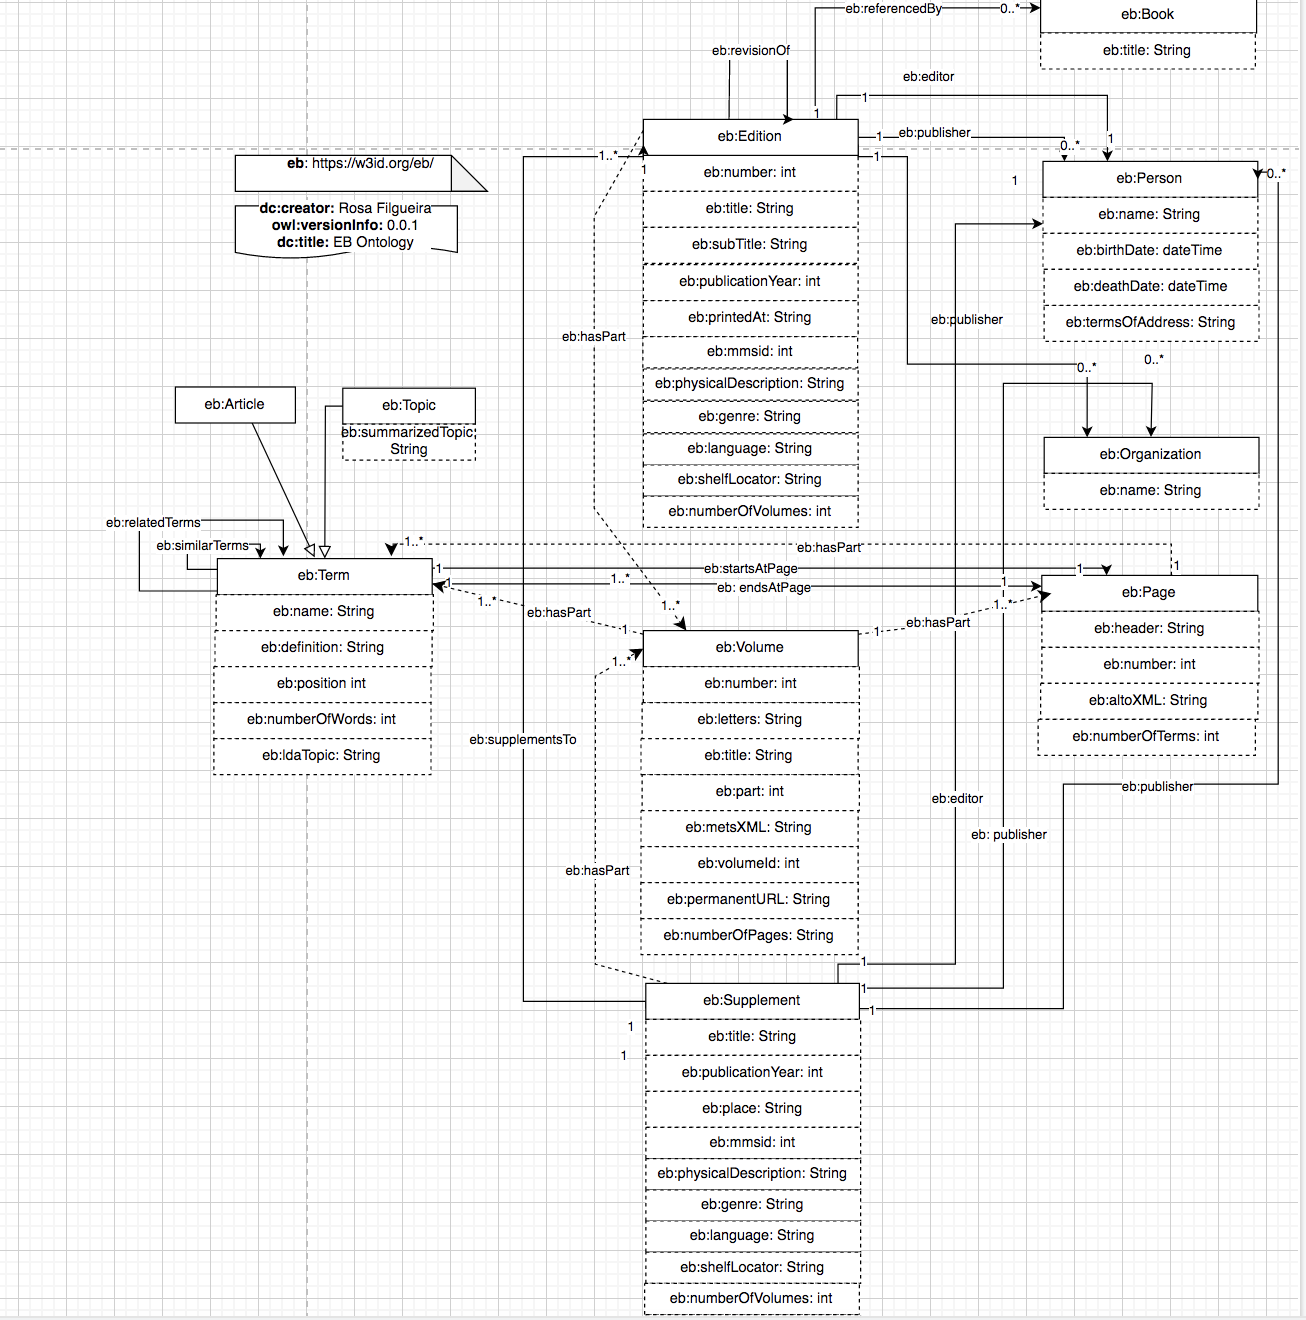
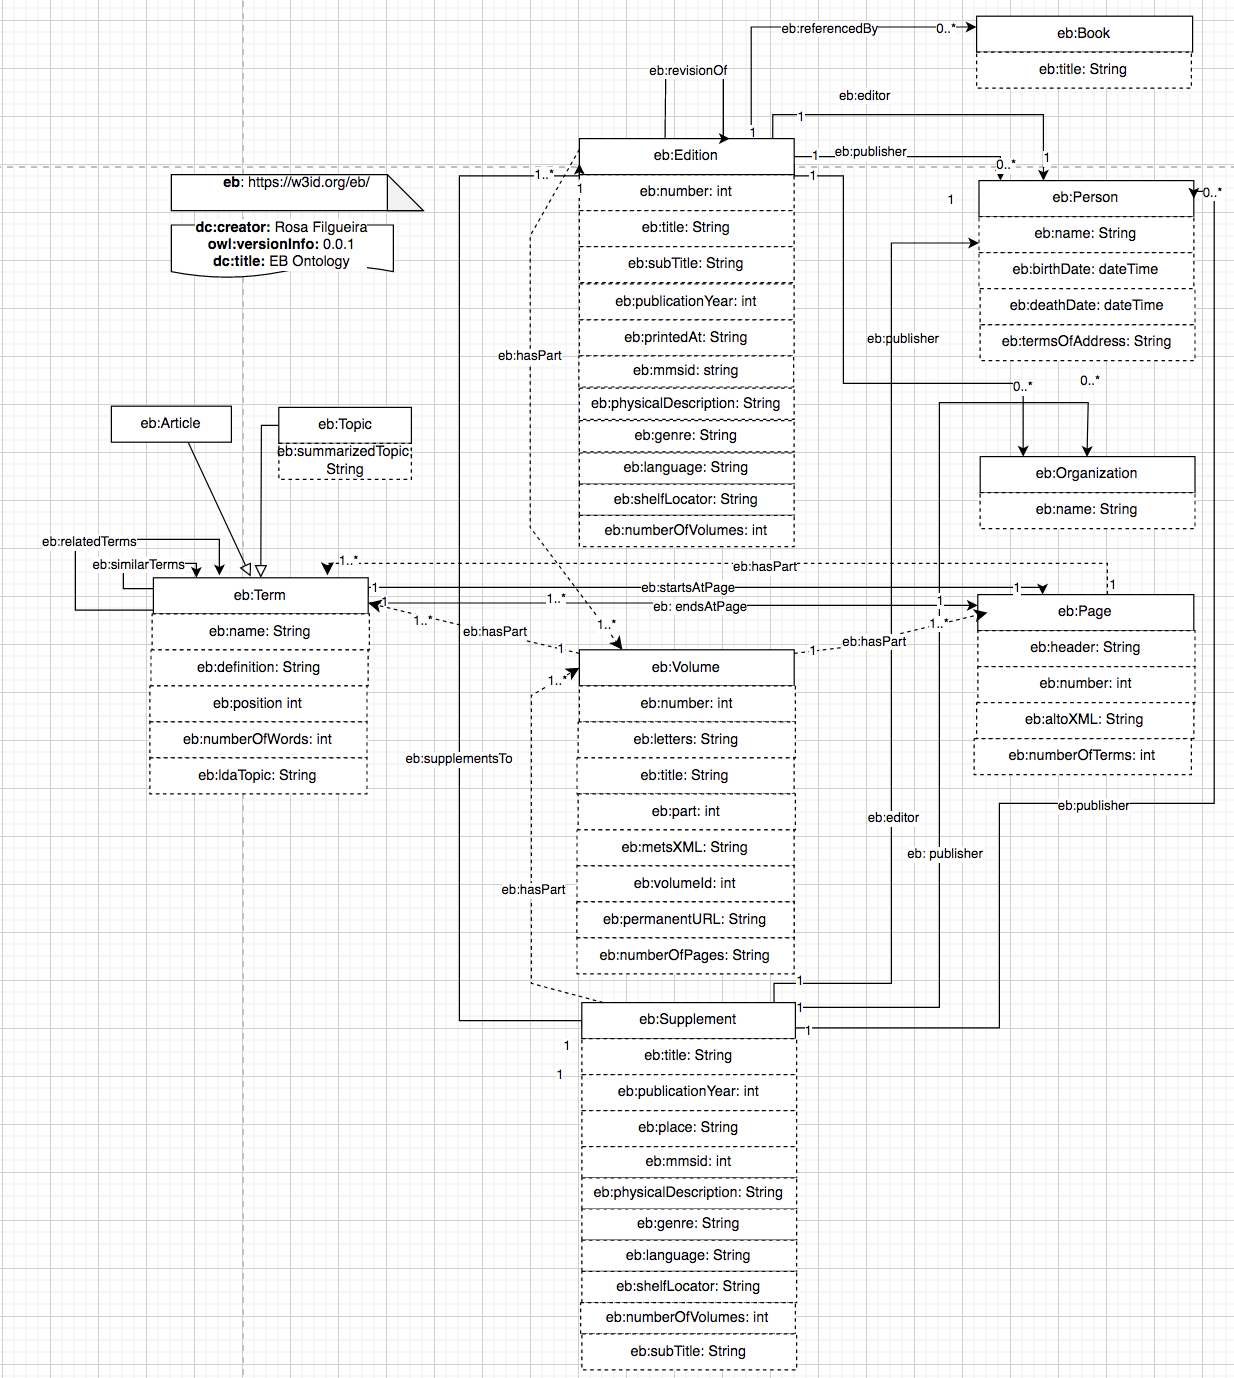
updates

diff --git a/doc/index-en.html b/doc/index-en.html
@@ -6,7 +6,7 @@
 
 
 <!-- SCHEMA.ORG METADATA -->
-<script type="application/ld+json">{"@context":"https://schema.org","@type":"TechArticle","url":"https://w3id.org/eb","image":"http://vowl.visualdataweb.org/webvowl/#iri=https://w3id.org/eb","name":"EB Ontology", "headline":"An ontology designed to represent volumes, terms and editions of the Encyclopaedia Britannica. The ontology extends Schema.org.", "datePublished":"Tue Nov 02 13:14:08 GMT 2021", "version":"0.0.2", "author":[{"@type":"Person","name":"Rosa Filgueira"}], "contributor":[{"@type":"Person","name":"Daniel Garijo"}]}</script>
+<script type="application/ld+json">{"@context":"https://schema.org","@type":"TechArticle","url":"https://w3id.org/eb","image":"http://vowl.visualdataweb.org/webvowl/#iri=https://w3id.org/eb","name":"EB Ontology", "headline":"An ontology designed to represent volumes, terms and editions of the Encyclopaedia Britannica. The ontology extends Schema.org.", "datePublished":"Thu Nov 04 13:52:36 GMT 2021", "version":"0.0.2", "author":[{"@type":"Person","name":"Rosa Filgueira"}], "contributor":[{"@type":"Person","name":"Daniel Garijo"}]}</script>
 
 <script src="resources/jquery.js"></script> 
 <script src="resources/marked.min.js"></script> 

diff --git a/doc/sections/crossref-en.html b/doc/sections/crossref-en.html
@@ -994,9 +994,9 @@ This section provides details for each class and property defined by EB Ontology
             </dd>
             <dt>has range</dt>
             <dd>
-               <a href="http://www.w3.org/2001/XMLSchema#int"
+               <a href="http://www.w3.org/2001/XMLSchema#string"
                   target="_blank"
-                  title="http://www.w3.org/2001/XMLSchema#int">int</a>
+                  title="http://www.w3.org/2001/XMLSchema#string">string</a>
             </dd>
          </dl>
       </div>
